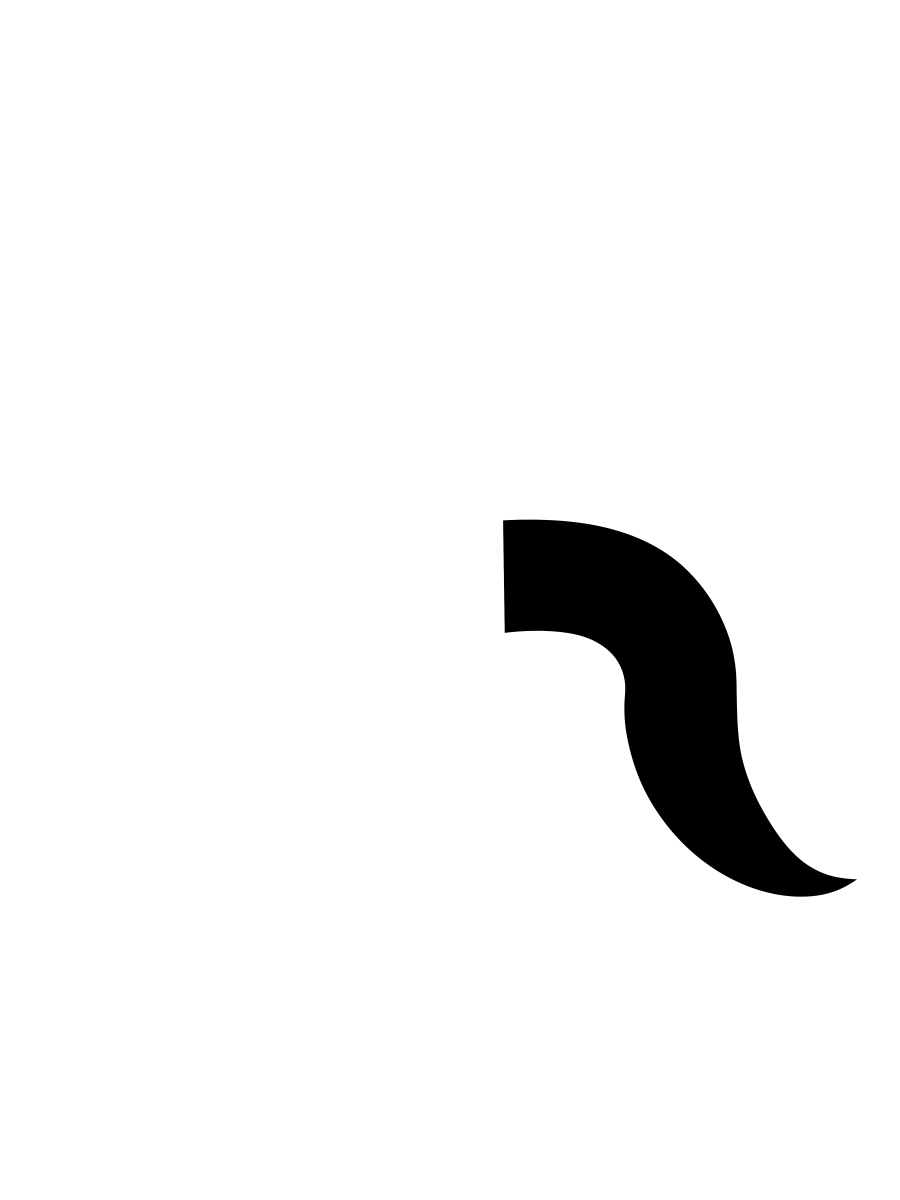
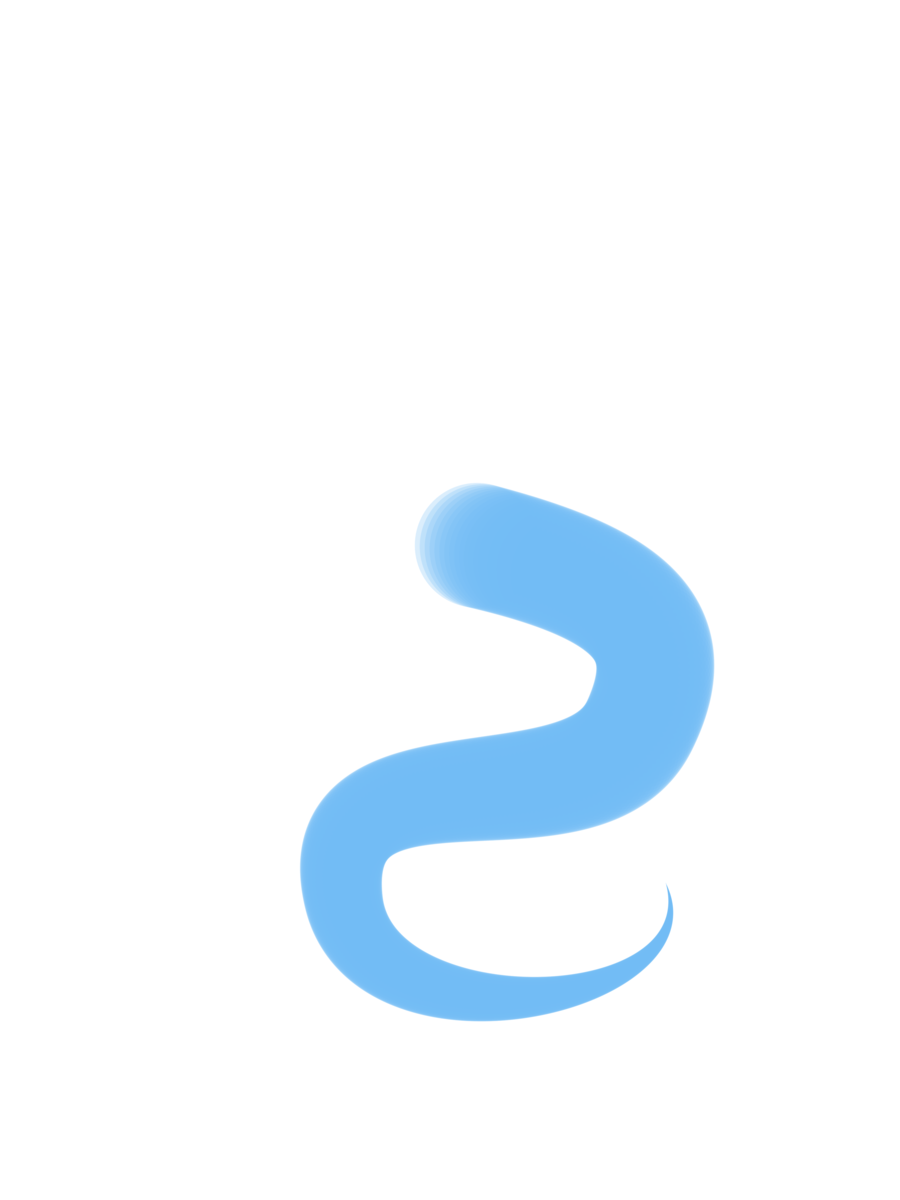
Update some janky CharViz assets
Following CharViz assets were redone:

-Scaly tail
-Dragon wings
-Shark tail
-Long hair

Changed region(s): [[0.3111, 0.4008, 0.9644, 0.8633]]

diff --git a/README.md b/README.md
@@ -25,14 +25,7 @@ You want to make a character and have a lack of inspiration? Don't hesistate to 
 
 Follow this link https://drive.google.com/drive/folders/15SH4fvY7Uqn1_QNuk0Md7Yib9OOZutju?usp=sharing
 
-- Download .sai2 file if you have Paint Tool SAI 2
-- Download .clip file if you have Clip Studio Paint
-
-```html
-Notes: 
-On newer versions of SAI 2 the file will not open correctly. I use Preview 2019.05.21 and it opens fine
-PSD is not available for download since folder clipping mask feature is used which Photoshop does not support
-```
+- Download .sai2 file if you have Paint Tool SAI 2 otherwise go for .psd
 
 ### TODO
 
@@ -40,4 +33,3 @@ PSD is not available for download since folder clipping mask feature is used whi
 - Make heads for following groups of species: Feline, Equine, Cervine (Deer - with and without antlers)
 - Add color patterns for various Felines (leopards, tigers etc.)
 - Make some outfits
-- Redo following low quality assets: Scaly tail, Shark tail, Dragon wings
